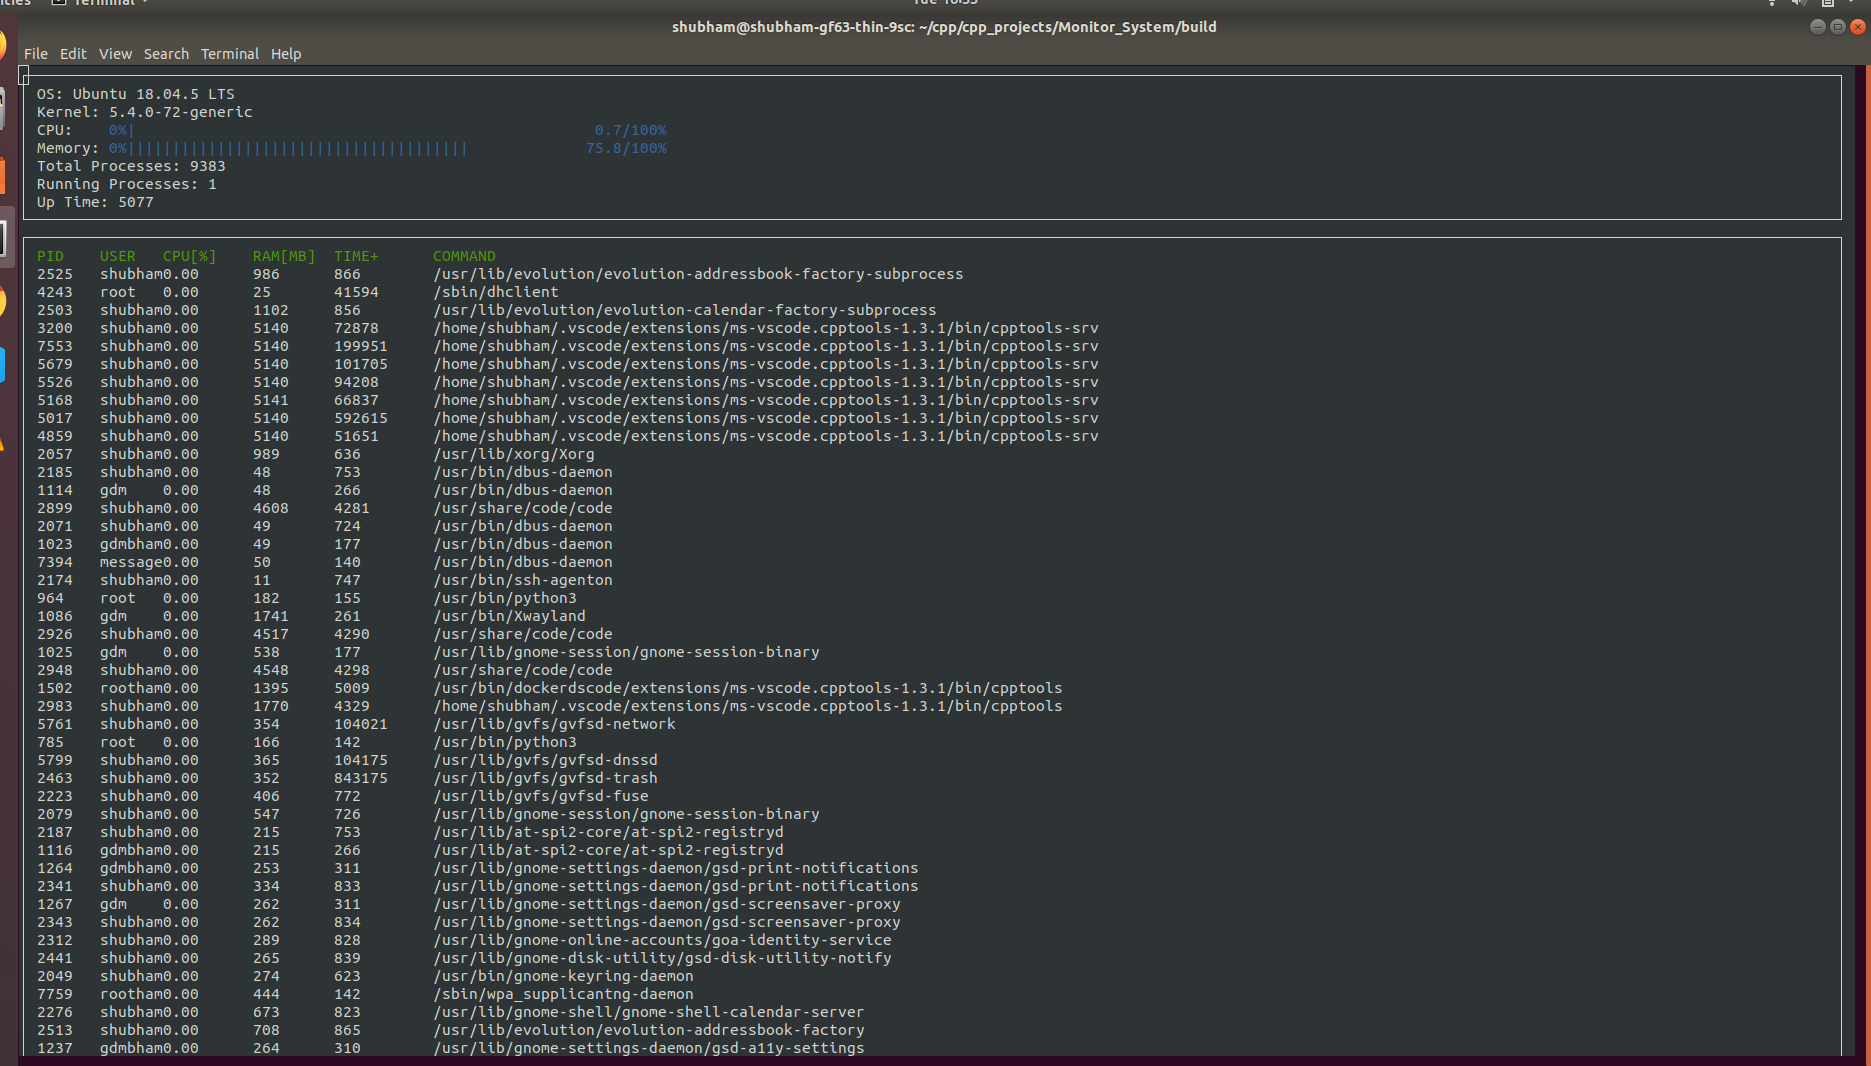
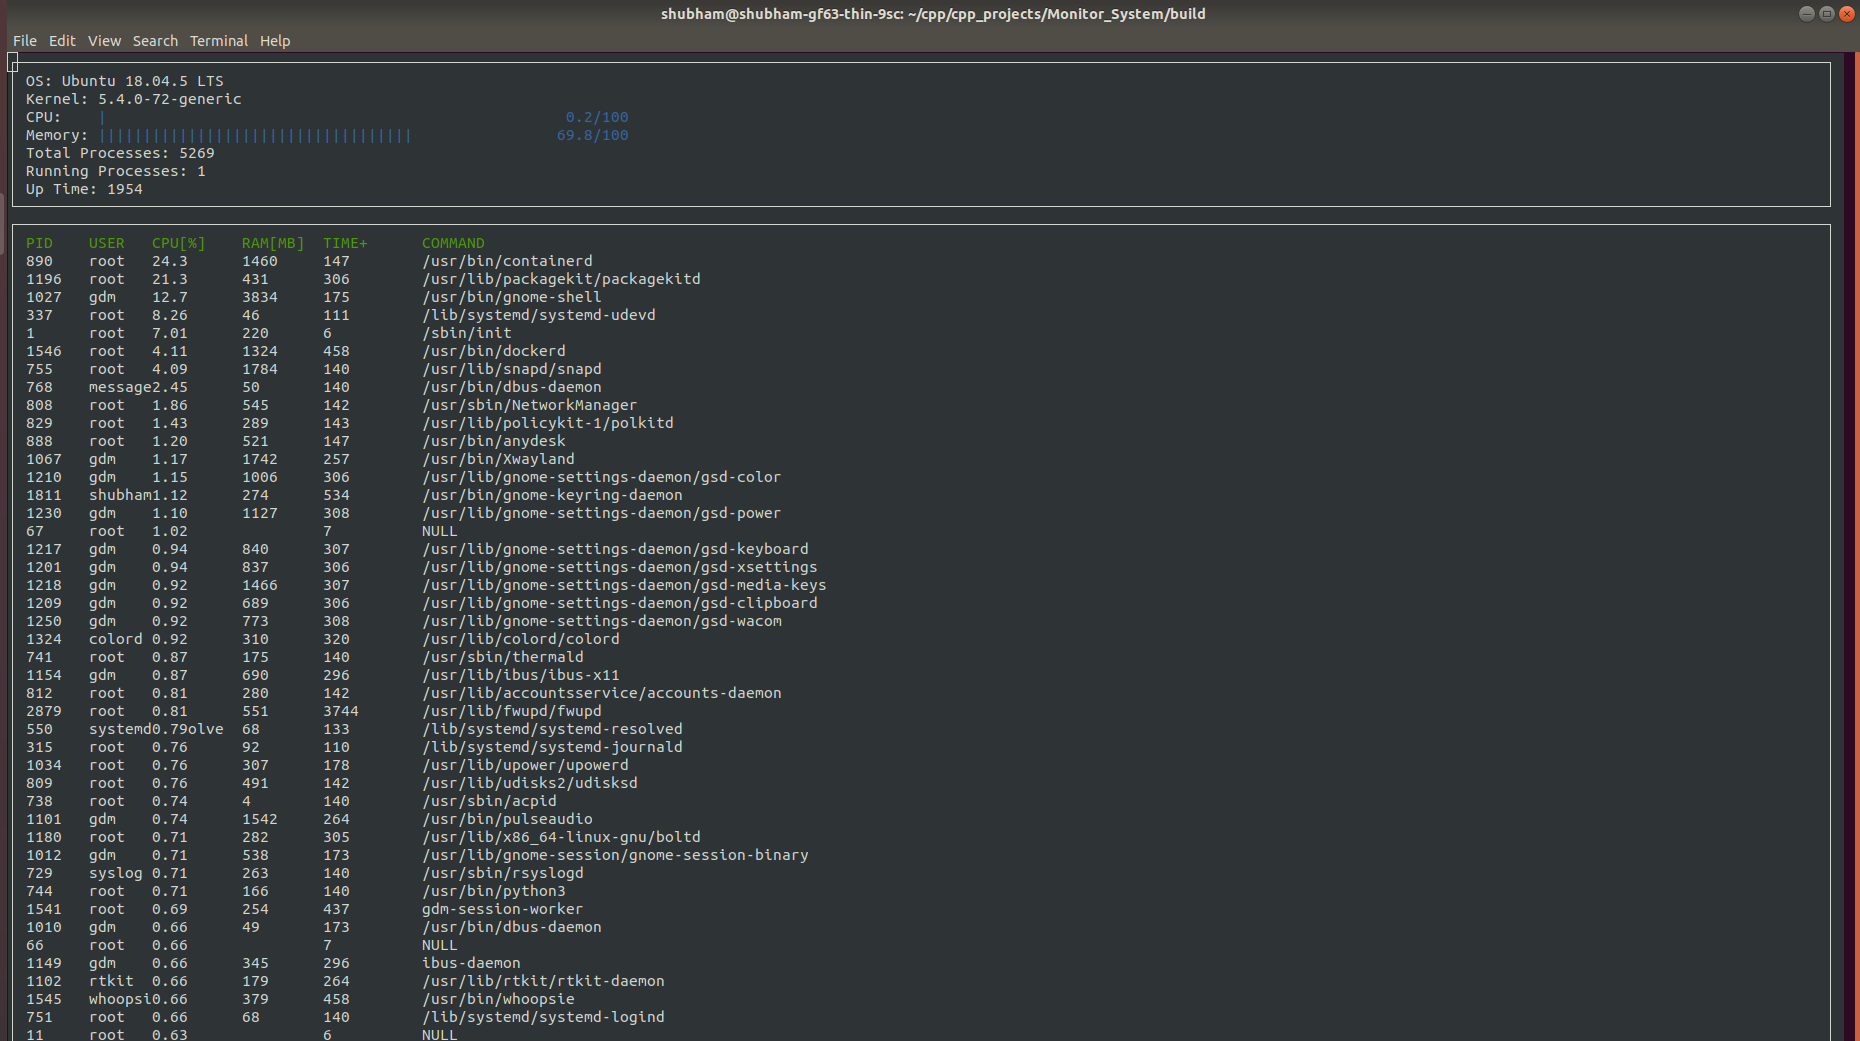
updated_output_image

Changed region(s): [[0.0, 0.0, 1.0, 1.0], [0.3118, 0.0922, 0.3742, 0.1537]]

diff --git a/src/linux_parser.cpp b/src/linux_parser.cpp
@@ -113,26 +113,6 @@ long LinuxParser::UpTime() {
   return total_uptime;
 }
 
-//Read jiffies for the system
-long LinuxParser::Jiffies() {
-  return 0; 
-}
-
-//Read active jiffies for a PID
-long LinuxParser::ActiveJiffies(int pid) { 
-  return 0; 
-}
-
-//Read active jiffies for the system
-long LinuxParser::ActiveJiffies() {
-  return 0; 
-}
-
-//Read idle jiffies for the system
-long LinuxParser::IdleJiffies() { 
-  return 0; 
-}
-
 vector<string> LinuxParser::CpuUtilization() {
   string line;
   vector<string> cpu_stats;

diff --git a/src/ncurses_display.cpp b/src/ncurses_display.cpp
@@ -14,7 +14,7 @@ using std::to_string;
 // 50 bars uniformly displayed from 0 - 100 %
 // 2% is one bar(|)
 std::string NCursesDisplay::ProgressBar(float percent) {
-  std::string result{"0%"};
+  std::string result = "";
   int size{50};
   float bars{percent * size};
 

diff --git a/include/linux_parser.h b/include/linux_parser.h
@@ -41,10 +41,6 @@ enum CPUStates {
   kGuestNice_
 };
 std::vector<std::string> CpuUtilization();
-long Jiffies();
-long ActiveJiffies();
-long ActiveJiffies(int pid);
-long IdleJiffies();
 
 // Processes
 std::string Command(int pid);
